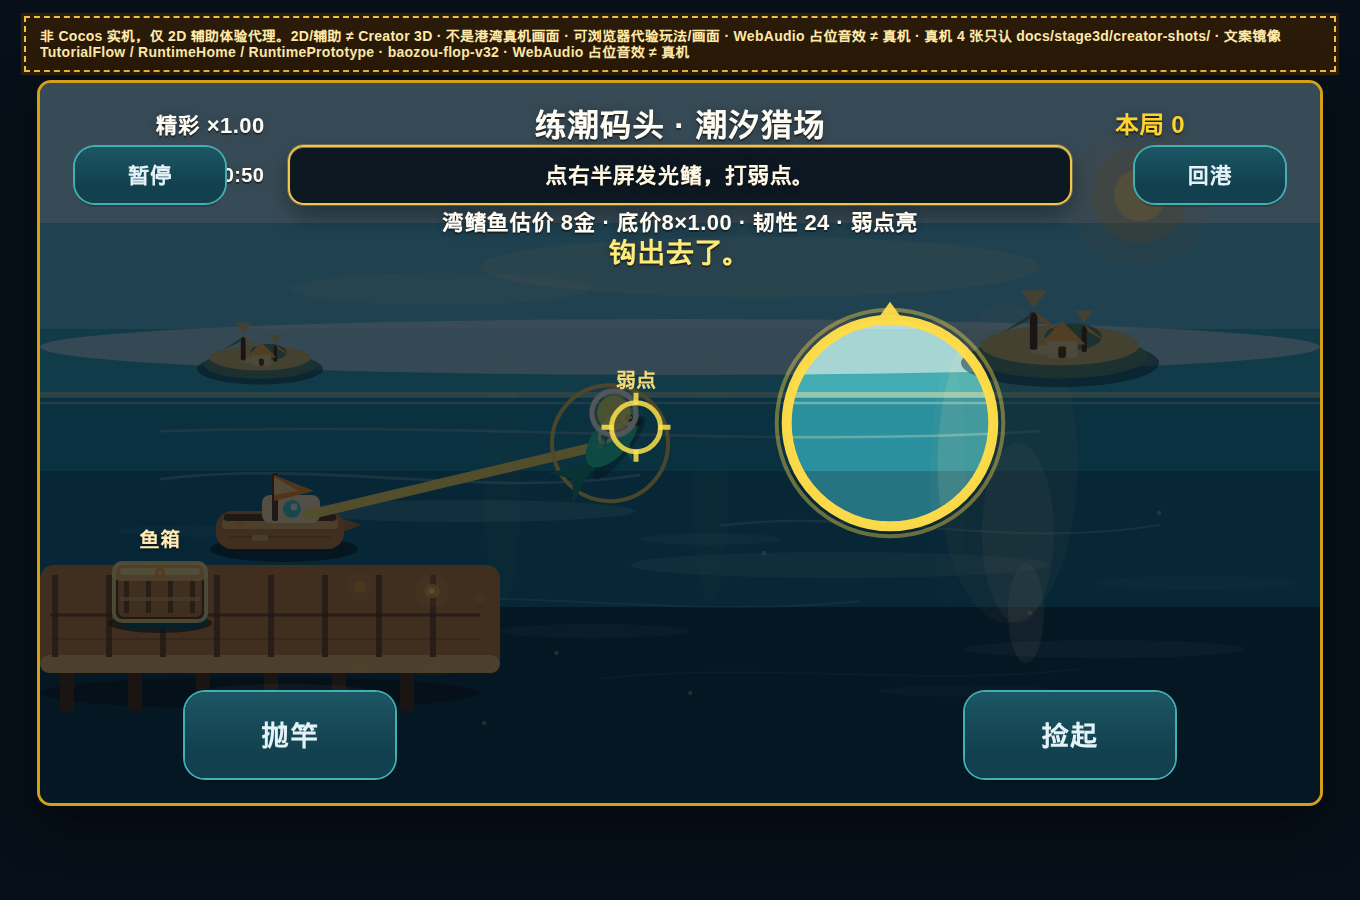
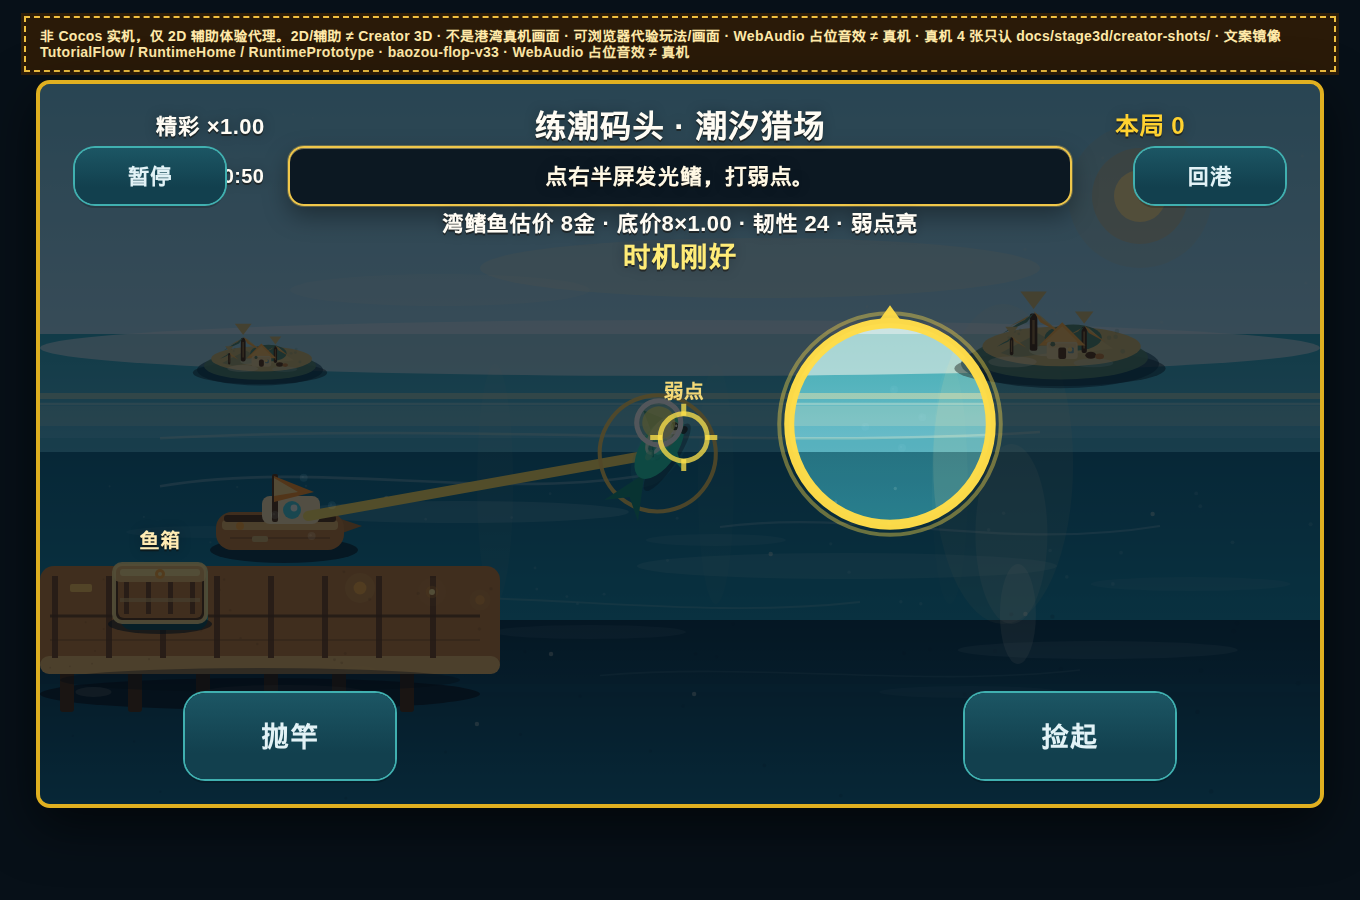
露出港口渐变层并更新代理九张加蓄力截图
拆掉盖住渐变的实心色带，重截第一局代理图；补 02b 蓄力条与轨迹。经济与 11/90 不变。

diff --git a/assets/scripts/domain/ArtRecipe.ts b/assets/scripts/domain/ArtRecipe.ts
@@ -236,60 +236,54 @@ export function skyWaterOps(look: IslandLook, phase = 0): DrawOp[] {
     {
       t: "grad",
       x: -640,
-      y: 200,
+      y: 110,
       w: 1280,
-      h: 320,
+      h: 410,
       from: rgba(look.skyTop),
       to: rgba(look.sky),
       axis: "y",
       tag: "grad",
     },
-    { t: "rect", x: -640, y: 200, w: 1280, h: 320, fill: rgba(look.skyTop) },
-    { t: "rect", x: -640, y: 110, w: 1280, h: 110, fill: rgba(look.sky) },
     {
       t: "grad",
       x: -640,
-      y: 36,
+      y: -8,
       w: 1280,
-      h: 78,
+      h: 118,
       from: rgba(look.sky),
       to: rgba(look.far),
       axis: "y",
       tag: "grad",
     },
-    { t: "rect", x: -640, y: 36, w: 1280, h: 78, fill: rgba(look.far) },
-    { t: "rect", x: -640, y: 18, w: 1280, h: 20, fill: rgba([255, 244, 210], 48) },
-    { t: "rect", x: -640, y: -8, w: 1280, h: 34, fill: rgba(mix(look.far, look.mid, 0.45)) },
     {
       t: "grad",
       x: -640,
-      y: -36,
+      y: -176,
       w: 1280,
-      h: 82,
+      h: 168,
       from: rgba(look.mid),
       to: rgba(look.near),
       axis: "y",
       tag: "grad",
     },
-    { t: "rect", x: -640, y: -36, w: 1280, h: 82, fill: rgba(look.mid) },
-    { t: "rect", x: -640, y: -96, w: 1280, h: 42, fill: rgba(mix(look.mid, look.near, 0.5), 210) },
-    { t: "rect", x: -640, y: -176, w: 1280, h: 148, fill: rgba(look.near) },
-    { t: "rect", x: -640, y: -248, w: 1280, h: 56, fill: rgba(mix(look.near, look.deep, 0.4)) },
     {
       t: "grad",
       x: -640,
       y: -360,
       w: 1280,
-      h: 196,
-      from: rgba(mix(look.near, look.deep, 0.35)),
+      h: 184,
+      from: rgba(look.near),
       to: rgba(look.deep),
       axis: "y",
       tag: "grad",
     },
-    { t: "rect", x: -640, y: -360, w: 1280, h: 196, fill: rgba(look.deep) },
-    speckleField(-640, -176, 1280, 148, rgba([210, 246, 255], 28), 42, 1.4, 3, "speckle"),
-    speckleField(-640, -360, 1280, 196, rgba([8, 40, 64], 40), 36, 1.8, 7, "speckle"),
-    speckleField(-640, 110, 1280, 220, rgba([255, 248, 220], 18), 18, 1.2, 11, "speckle"),
+    { t: "rect", x: -640, y: 18, w: 1280, h: 20, fill: rgba([255, 244, 210], 48) },
+    { t: "rect", x: -640, y: -8, w: 1280, h: 14, fill: rgba(mix(look.far, look.mid, 0.45), 90) },
+    { t: "rect", x: -640, y: -96, w: 1280, h: 10, fill: rgba(mix(look.mid, look.near, 0.5), 70) },
+    { t: "rect", x: -640, y: -248, w: 1280, h: 8, fill: rgba(mix(look.near, look.deep, 0.4), 80) },
+    speckleField(-640, -176, 1280, 148, rgba([210, 246, 255], 36), 48, 1.5, 3, "speckle"),
+    speckleField(-640, -360, 1280, 196, rgba([8, 40, 64], 46), 40, 1.8, 7, "speckle"),
+    speckleField(-640, 110, 1280, 220, rgba([255, 248, 220], 22), 22, 1.3, 11, "speckle"),
   ];
   if ((look.skyTop[0] ?? 0) > 240) {
     push(

diff --git a/tools/first-run-preview/shots/README.md b/tools/first-run-preview/shots/README.md
@@ -2,4 +2,4 @@
 
 **非 Cocos 实机，仅 2D 辅助体验代理。2D/辅助 ≠ Creator 3D，不能当真机手感 / 3D 画面证据。**
 
-这些 png 来自 `first-run-preview`（本批已重截，含分层港口、蓄力轨迹与落地扬尘），**不是** `docs/stage3d/expect_*.jpg`，更 **不是** Creator 4 张。真机图只认 `docs/stage3d/creator-shots/`（仍为 0/4）。
+这些 png 来自 `first-run-preview`（本批已重截，含分层港口、蓄力轨迹 `02b_charge.png` 与落地扬尘），**不是** `docs/stage3d/expect_*.jpg`，更 **不是** Creator 4 张。真机图只认 `docs/stage3d/creator-shots/`（仍为 0/4）。
